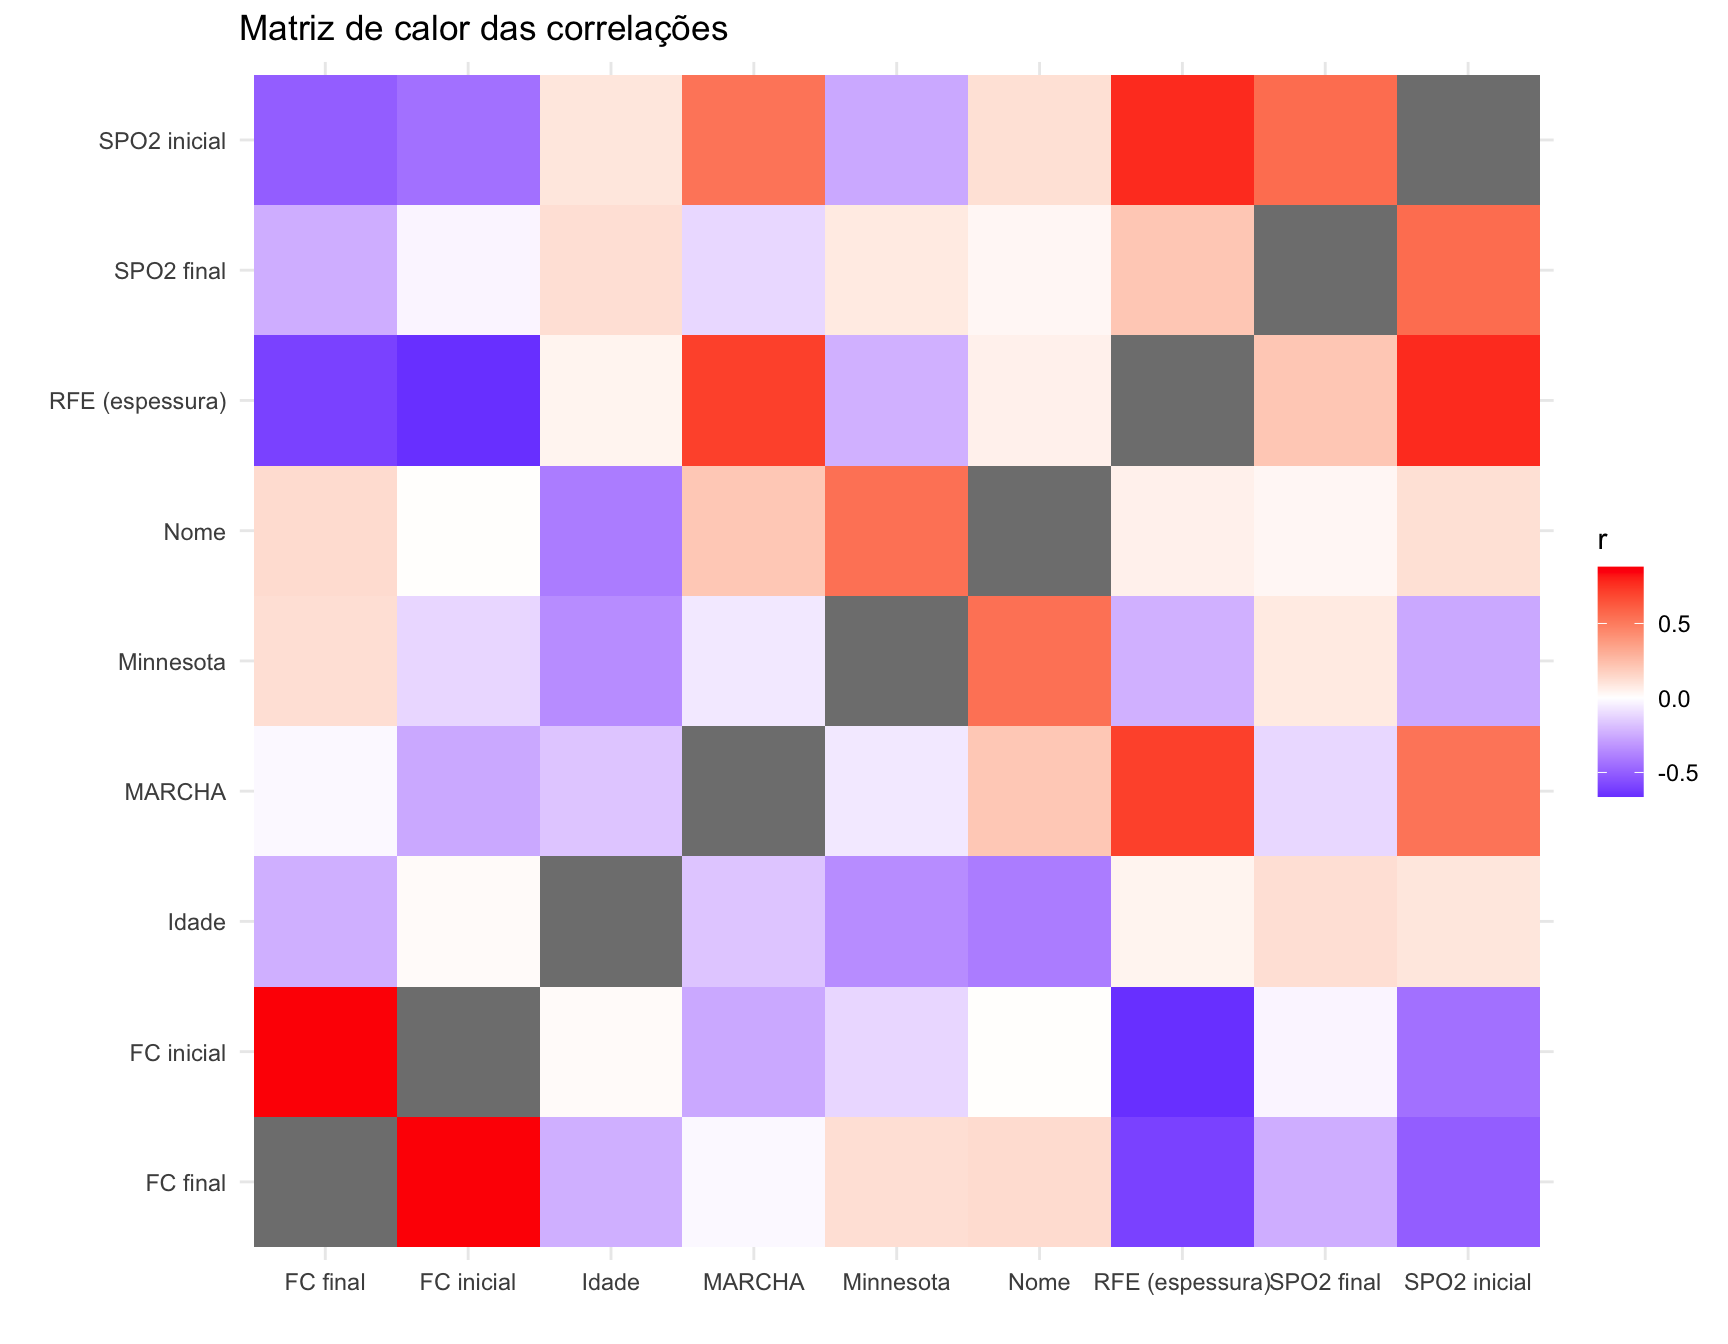
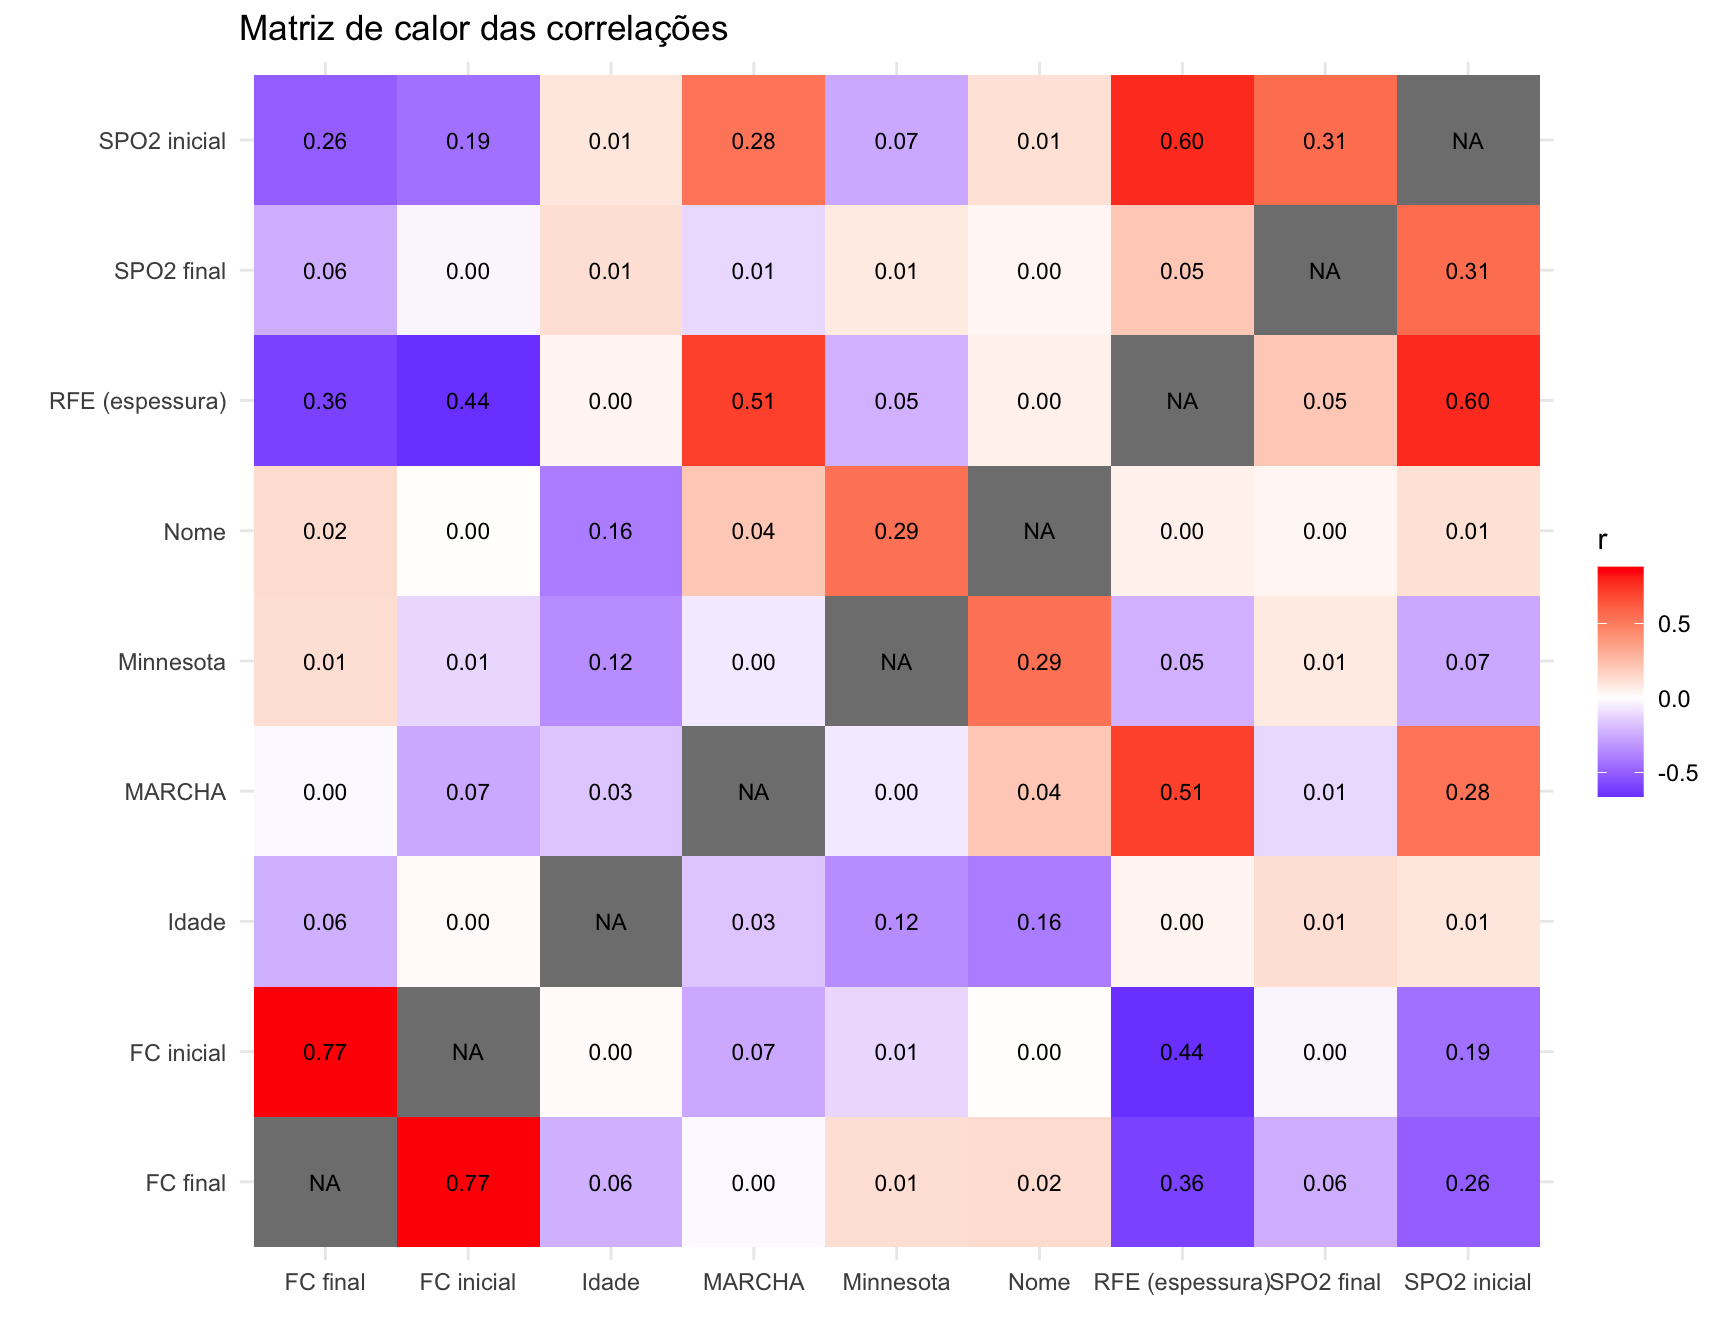
Atualizar data de publicação e aprimorar visualização da matriz de calor com R²

diff --git a/index.html b/index.html
@@ -105,7 +105,7 @@ window.Quarto = {
     <div>
     <div class="quarto-title-meta-heading">Data de Publicação</div>
     <div class="quarto-title-meta-contents">
-      <p class="date">28 de janeiro de 2026</p>
+      <p class="date">13 de fevereiro de 2026</p>
     </div>
   </div>
   
@@ -131,8 +131,8 @@ window.Quarto = {
 <p>No período de <strong>2025-07-11</strong> a <strong>2025-12-15</strong>, foram realizados <strong>12</strong> registros de acompanhamento de reabilitação cardiopulmonar, cujas métricas (variáveis) estão evidenciadas na tabela abaixo: <br></p>
 <div class="cell">
 <div class="cell-output-display">
-<div class="datatables html-widget html-fill-item" id="htmlwidget-6d2efb5cb2ea4cdb2a3e" style="width:100%;height:auto;"></div>
-<script type="application/json" data-for="htmlwidget-6d2efb5cb2ea4cdb2a3e">{"x":{"filter":"none","vertical":false,"data":[["1","2","3","4","5","6","7","8","9","10","11","12"],["2025-07-11T00:00:00Z","2025-08-06T00:00:00Z","2025-08-13T00:00:00Z","2025-08-13T00:00:00Z","2025-08-13T00:00:00Z","2025-09-18T00:00:00Z","2025-09-22T00:00:00Z","2025-09-22T00:00:00Z","2025-11-28T00:00:00Z","2025-12-10T00:00:00Z","2025-12-15T00:00:00Z","2025-12-15T00:00:00Z"],[1,2,3,4,5,6,7,8,9,10,11,12],[77,56,77,67,79,72,72,61,64,48,66,67],["F","M","M","M","M","M","M","M","F","M","M","F"],[59,82,66,69,79,74,85,67,50,97,96,100],[0.22,0.24,0.31,0.27,0.32,0.34,0.47,0.38,0.36,0.32,0.14,0.26],[115,85,93,82,89,69,67,76,102,96,105,92],[107,98,101,88,96,82,75,75,108,115,108,100],[92,91,96,92,92,93,96,97,94,93,90,94],[98,91,96,92,94,93,96,100,90,96,93,96],[4,46,70,28,70,32,76,49,87,74,14,42]],"container":"<table class=\"display\">\n  <thead>\n    <tr>\n      <th> <\/th>\n      <th>DATA<\/th>\n      <th>Nome<\/th>\n      <th>Idade<\/th>\n      <th>Sexo<\/th>\n      <th>Minnesota<\/th>\n      <th>RFE (espessura)<\/th>\n      <th>FC inicial<\/th>\n      <th>FC final<\/th>\n      <th>SPO2 inicial<\/th>\n      <th>SPO2 final<\/th>\n      <th>MARCHA<\/th>\n    <\/tr>\n  <\/thead>\n<\/table>","options":{"columnDefs":[{"className":"dt-right","targets":[2,3,5,6,7,8,9,10,11]},{"orderable":false,"targets":0},{"name":" ","targets":0},{"name":"DATA","targets":1},{"name":"Nome","targets":2},{"name":"Idade","targets":3},{"name":"Sexo","targets":4},{"name":"Minnesota","targets":5},{"name":"RFE (espessura)","targets":6},{"name":"FC inicial","targets":7},{"name":"FC final","targets":8},{"name":"SPO2 inicial","targets":9},{"name":"SPO2 final","targets":10},{"name":"MARCHA","targets":11}],"order":[],"autoWidth":false,"orderClasses":false}},"evals":[],"jsHooks":[]}</script>
+<div class="datatables html-widget html-fill-item" id="htmlwidget-deac0a09ac0f83dc8f33" style="width:100%;height:auto;"></div>
+<script type="application/json" data-for="htmlwidget-deac0a09ac0f83dc8f33">{"x":{"filter":"none","vertical":false,"data":[["1","2","3","4","5","6","7","8","9","10","11","12"],["2025-07-11T00:00:00Z","2025-08-06T00:00:00Z","2025-08-13T00:00:00Z","2025-08-13T00:00:00Z","2025-08-13T00:00:00Z","2025-09-18T00:00:00Z","2025-09-22T00:00:00Z","2025-09-22T00:00:00Z","2025-11-28T00:00:00Z","2025-12-10T00:00:00Z","2025-12-15T00:00:00Z","2025-12-15T00:00:00Z"],[1,2,3,4,5,6,7,8,9,10,11,12],[77,56,77,67,79,72,72,61,64,48,66,67],["F","M","M","M","M","M","M","M","F","M","M","F"],[59,82,66,69,79,74,85,67,50,97,96,100],[0.22,0.24,0.31,0.27,0.32,0.34,0.47,0.38,0.36,0.32,0.14,0.26],[115,85,93,82,89,69,67,76,102,96,105,92],[107,98,101,88,96,82,75,75,108,115,108,100],[92,91,96,92,92,93,96,97,94,93,90,94],[98,91,96,92,94,93,96,100,90,96,93,96],[4,46,70,28,70,32,76,49,87,74,14,42]],"container":"<table class=\"display\">\n  <thead>\n    <tr>\n      <th> <\/th>\n      <th>DATA<\/th>\n      <th>Nome<\/th>\n      <th>Idade<\/th>\n      <th>Sexo<\/th>\n      <th>Minnesota<\/th>\n      <th>RFE (espessura)<\/th>\n      <th>FC inicial<\/th>\n      <th>FC final<\/th>\n      <th>SPO2 inicial<\/th>\n      <th>SPO2 final<\/th>\n      <th>MARCHA<\/th>\n    <\/tr>\n  <\/thead>\n<\/table>","options":{"columnDefs":[{"className":"dt-right","targets":[2,3,5,6,7,8,9,10,11]},{"orderable":false,"targets":0},{"name":" ","targets":0},{"name":"DATA","targets":1},{"name":"Nome","targets":2},{"name":"Idade","targets":3},{"name":"Sexo","targets":4},{"name":"Minnesota","targets":5},{"name":"RFE (espessura)","targets":6},{"name":"FC inicial","targets":7},{"name":"FC final","targets":8},{"name":"SPO2 inicial","targets":9},{"name":"SPO2 final","targets":10},{"name":"MARCHA","targets":11}],"order":[],"autoWidth":false,"orderClasses":false}},"evals":[],"jsHooks":[]}</script>
 </div>
 </div>
 </section>
